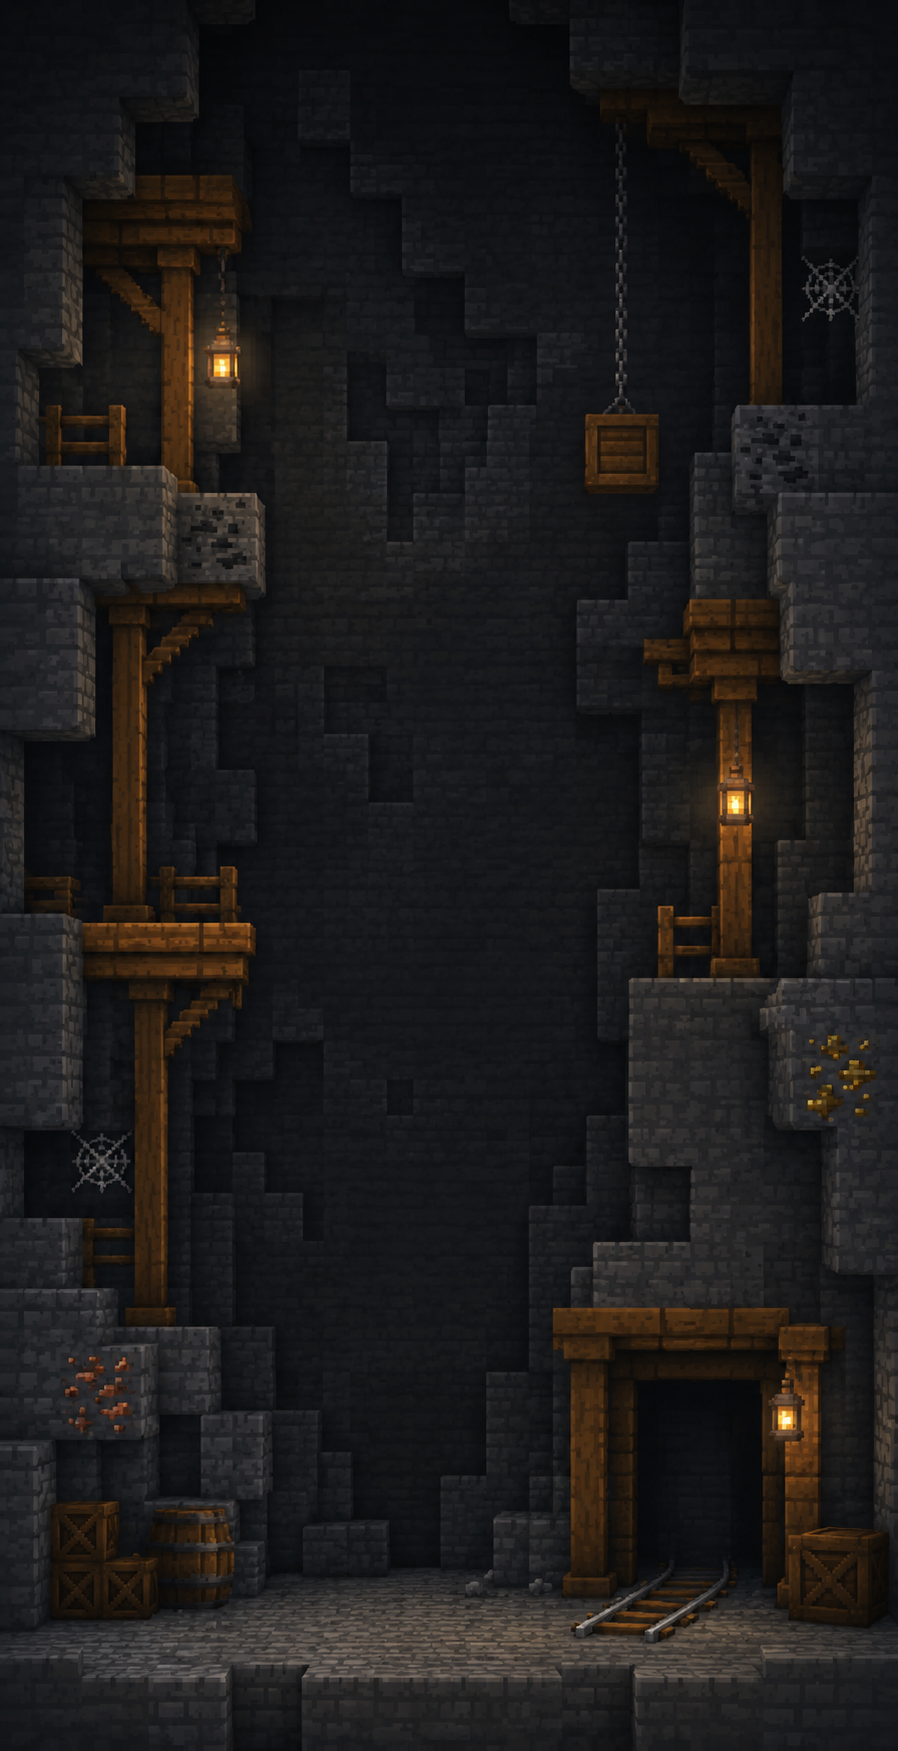
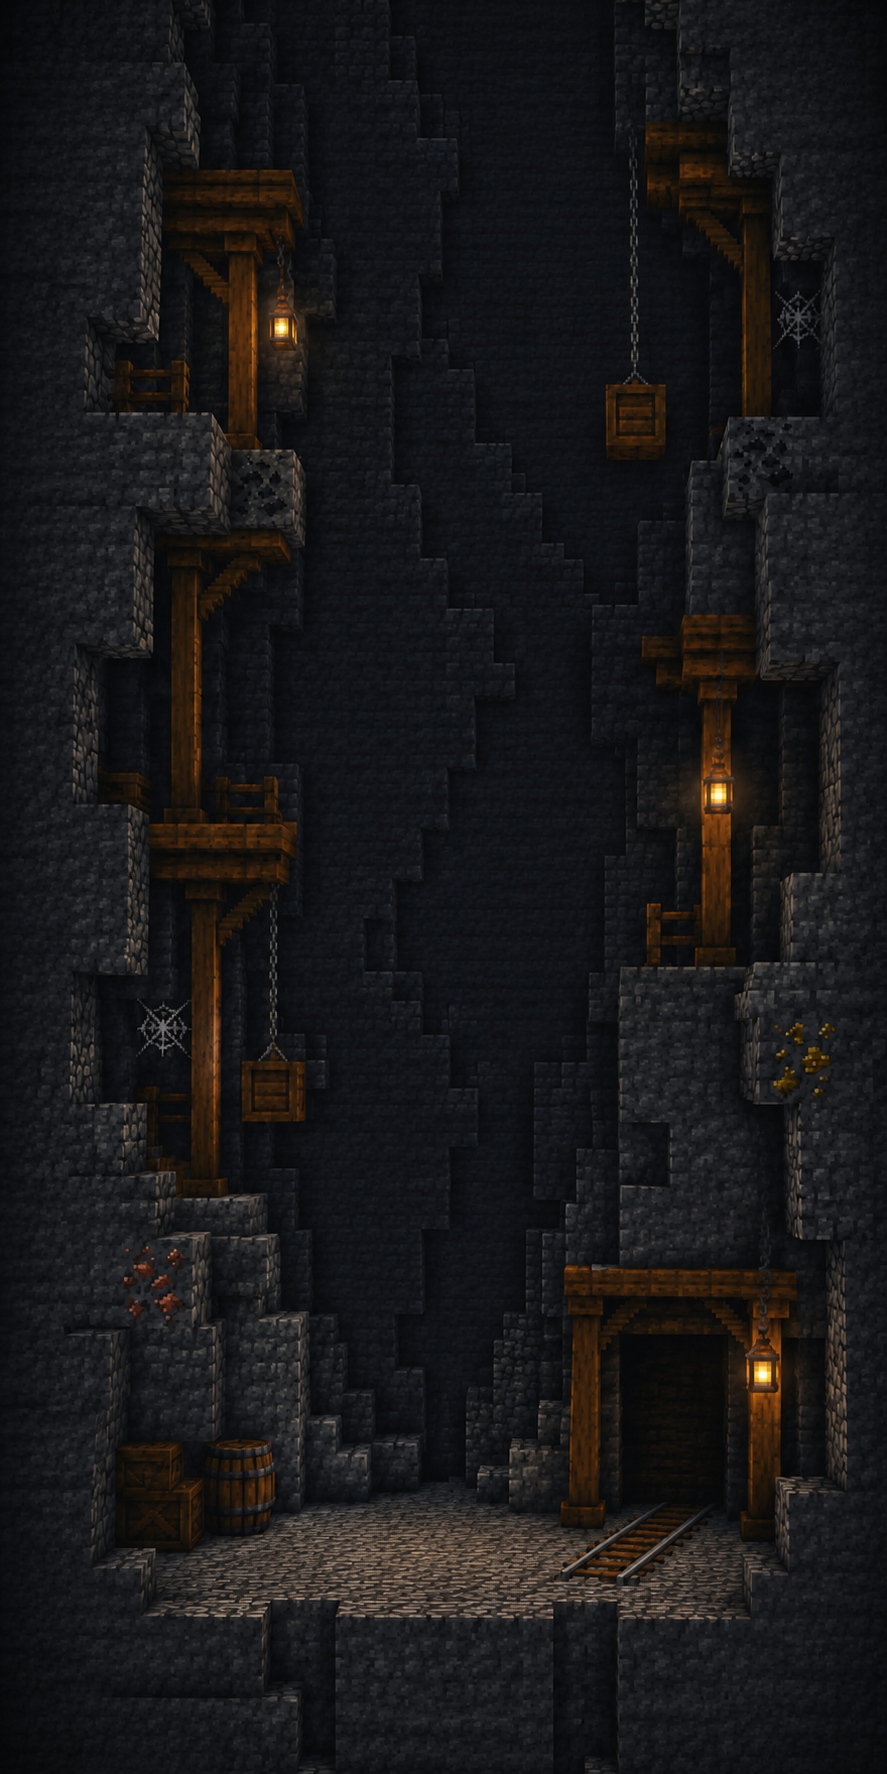
Plattformgrafiken und Hintergrund wurden erneut überarbeitet und etwas besser aufeinander abgestimmt.

diff --git a/src/game/model/Platform.java b/src/game/model/Platform.java
@@ -5,8 +5,18 @@ package game.model;
 
 import java.awt.Color;
 import java.awt.Graphics;
+import java.awt.Graphics2D;
+import java.awt.image.BufferedImage;
+import java.io.File;
+import java.io.IOException;
+import java.net.URL;
+import javax.imageio.ImageIO;
 
 public class Platform {
+
+    private static final BufferedImage holzBild = ladeBild("platform_wood.png");
+    private static final BufferedImage steinBild = ladeBild("platform_stone.png");
+    private static final BufferedImage trampolinBild = ladeBild("platform_trampoline.png");
 
     private int x;
     private int y;
@@ -36,29 +46,53 @@ public class Platform {
     }
 
     public void draw(Graphics g) {
+        Graphics2D g2 = (Graphics2D) g.create();
+
         if (plattformTyp == PlatformType.NORMAL) {
-            g.setColor(new Color(100, 100, 100));
+            plattformBildZeichnen(g2, steinBild, new Color(70, 72, 72));
         } else if (plattformTyp == PlatformType.BRUECHIG) {
-            g.setColor(new Color(120, 70, 40));
+            plattformBildZeichnen(g2, holzBild, new Color(122, 76, 34));
+            if (wurdeBeruehrt) {
+                holzRisseZeichnen(g2);
+            }
         } else if (plattformTyp == PlatformType.TRAMPOLIN) {
-            g.setColor(new Color(50, 190, 80));
+            plattformBildZeichnen(g2, trampolinBild, new Color(130, 60, 30));
         }
 
-        g.fillRect(x, y, breite, hoehe);
+        g2.dispose();
+    }
 
-        g.setColor(Color.BLACK);
-        g.drawRect(x, y, breite, hoehe);
-
-        if (plattformTyp == PlatformType.TRAMPOLIN) {
-            g.setColor(new Color(220, 40, 40));
-            g.drawLine(x + 10, y + 3, x + breite - 10, y + 3);
-            g.drawLine(x + 10, y + hoehe - 4, x + breite - 10, y + hoehe - 4);
+    private void plattformBildZeichnen(Graphics2D g2, BufferedImage bild, Color fallbackFarbe) {
+        if (bild == null) {
+            g2.setColor(fallbackFarbe);
+            g2.fillRect(x, y, breite, hoehe);
+            g2.setColor(Color.BLACK);
+            g2.drawRect(x, y, breite, hoehe);
+            return;
         }
 
-        if (plattformTyp == PlatformType.BRUECHIG && wurdeBeruehrt) {
-            g.setColor(Color.BLACK);
-            g.drawLine(x + 20, y, x + 35, y + hoehe);
-            g.drawLine(x + 55, y, x + 70, y + hoehe);
+        g2.drawImage(bild, x - 2, y - 1, breite + 4, hoehe + 6, null);
+    }
+
+    private void holzRisseZeichnen(Graphics2D g2) {
+        g2.setColor(new Color(9, 6, 4));
+        g2.drawLine(x + 28, y + 1, x + 38, y + hoehe + 2);
+        g2.drawLine(x + 38, y + 8, x + 45, y + 3);
+        g2.drawLine(x + 68, y + 1, x + 80, y + hoehe + 2);
+        g2.drawLine(x + 80, y + 10, x + 88, y + 6);
+    }
+
+    private static BufferedImage ladeBild(String dateiname) {
+        URL bildUrl = Platform.class.getResource("/game/assets/" + dateiname);
+
+        try {
+            if (bildUrl != null) {
+                return ImageIO.read(bildUrl);
+            }
+
+            return ImageIO.read(new File("src/game/assets/" + dateiname));
+        } catch (IOException e) {
+            return null;
         }
     }
 

diff --git a/src/game/GamePanel.java b/src/game/GamePanel.java
@@ -31,7 +31,7 @@ import javax.imageio.ImageIO;
 public class GamePanel extends JPanel {
 
     private static final BufferedImage startHoehlenBild = ladeBild("cave_background.png");
-    private static final BufferedImage hoehlenKachelBild = ladeBild("cave_tile.png");
+    private static final BufferedImage hoehlenHauptBild = ladeBild("cave_main.png");
 
     private final int bildschirmBreite = 400;
     private final int bildschirmHoehe = 600;
@@ -160,7 +160,7 @@ public class GamePanel extends JPanel {
         Graphics2D g2 = (Graphics2D) g.create();
         g2.setRenderingHint(RenderingHints.KEY_INTERPOLATION, RenderingHints.VALUE_INTERPOLATION_BILINEAR);
 
-        if (startHoehlenBild == null || hoehlenKachelBild == null) {
+        if (startHoehlenBild == null || hoehlenHauptBild == null) {
             g2.setColor(new Color(19, 20, 24));
             g2.fillRect(0, 0, bildschirmBreite, bildschirmHoehe);
             g2.dispose();
@@ -171,16 +171,16 @@ public class GamePanel extends JPanel {
         g2.fillRect(0, 0, bildschirmBreite, bildschirmHoehe);
 
         int skalierteStartBildHoehe = startHoehlenBild.getHeight() * bildschirmBreite / startHoehlenBild.getWidth();
-        int skalierteKachelHoehe = hoehlenKachelBild.getHeight() * bildschirmBreite / hoehlenKachelBild.getWidth();
+        int skalierteHauptBildHoehe = hoehlenHauptBild.getHeight() * bildschirmBreite / hoehlenHauptBild.getWidth();
         int startBildY = bildschirmHoehe - skalierteStartBildHoehe + punktzahl;
 
-        int kachelY = startBildY - skalierteKachelHoehe;
-        while (kachelY > -skalierteKachelHoehe) {
-            kachelY -= skalierteKachelHoehe;
+        int hauptBildY = startBildY - skalierteHauptBildHoehe;
+        while (hauptBildY > -skalierteHauptBildHoehe) {
+            hauptBildY -= skalierteHauptBildHoehe;
         }
 
-        for (int y = kachelY; y < bildschirmHoehe; y += skalierteKachelHoehe) {
-            g2.drawImage(hoehlenKachelBild, 0, y, bildschirmBreite, skalierteKachelHoehe, null);
+        for (int y = hauptBildY; y < bildschirmHoehe; y += skalierteHauptBildHoehe) {
+            g2.drawImage(hoehlenHauptBild, 0, y, bildschirmBreite, skalierteHauptBildHoehe, null);
         }
 
         if (startBildY < bildschirmHoehe) {

diff --git a/src/game/Main.java b/src/game/Main.java
@@ -11,4 +11,3 @@ public class Main {
         gameFrame.setVisible(true);
     }
 }
-// pp
